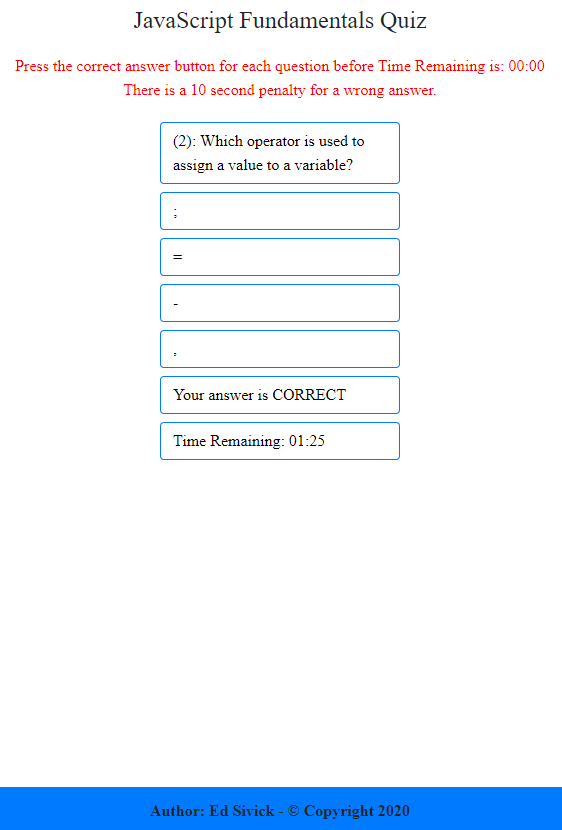
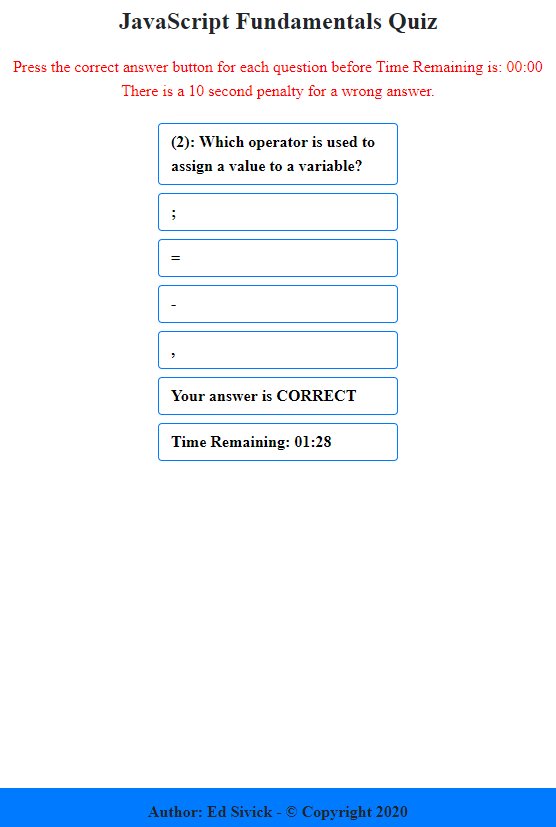
update font-weight and images for easier read

Changed region(s): [[0.0306, 0.0, 0.9784, 0.5744], [0.0, 0.9371, 1.0, 0.9976]]

diff --git a/assets/style.css b/assets/style.css
@@ -2,6 +2,7 @@
 .appDesc {
     font-family: 'Times New Roman', Times, serif;
     font-size: 1.5rem;
+    font-weight: bold;
     margin-top: 0.5rem;
     text-align: center;
 }
@@ -22,6 +23,8 @@
 .reloadButtons {
     font-family: 'Times New Roman', Times, serif;
     font-size: 1rem;
+    color: black;
+    font-weight: bold;
     width: 15rem;
     margin: 0.25rem auto;    
 }
@@ -30,6 +33,7 @@
     font-family: 'Times New Roman', Times, serif;
     font-size: 1.0rem;
     color: black;
+    font-weight: bold;
     margin: auto;
 }
 /* Style for High Scores list div */
@@ -44,6 +48,7 @@
     font-family: 'Times New Roman', Times, serif;
     font-size: 1rem;
     color: black;
+    font-weight: bold;
     text-align: left;
     width: 15rem;
     height: auto;
@@ -54,6 +59,7 @@
     font-family: 'Times New Roman', Times, serif;
     font-size: 1rem;
     color: black;
+    font-weight: bold;
     text-align: left;
     width: 15rem;
     margin: 0.25rem auto;
